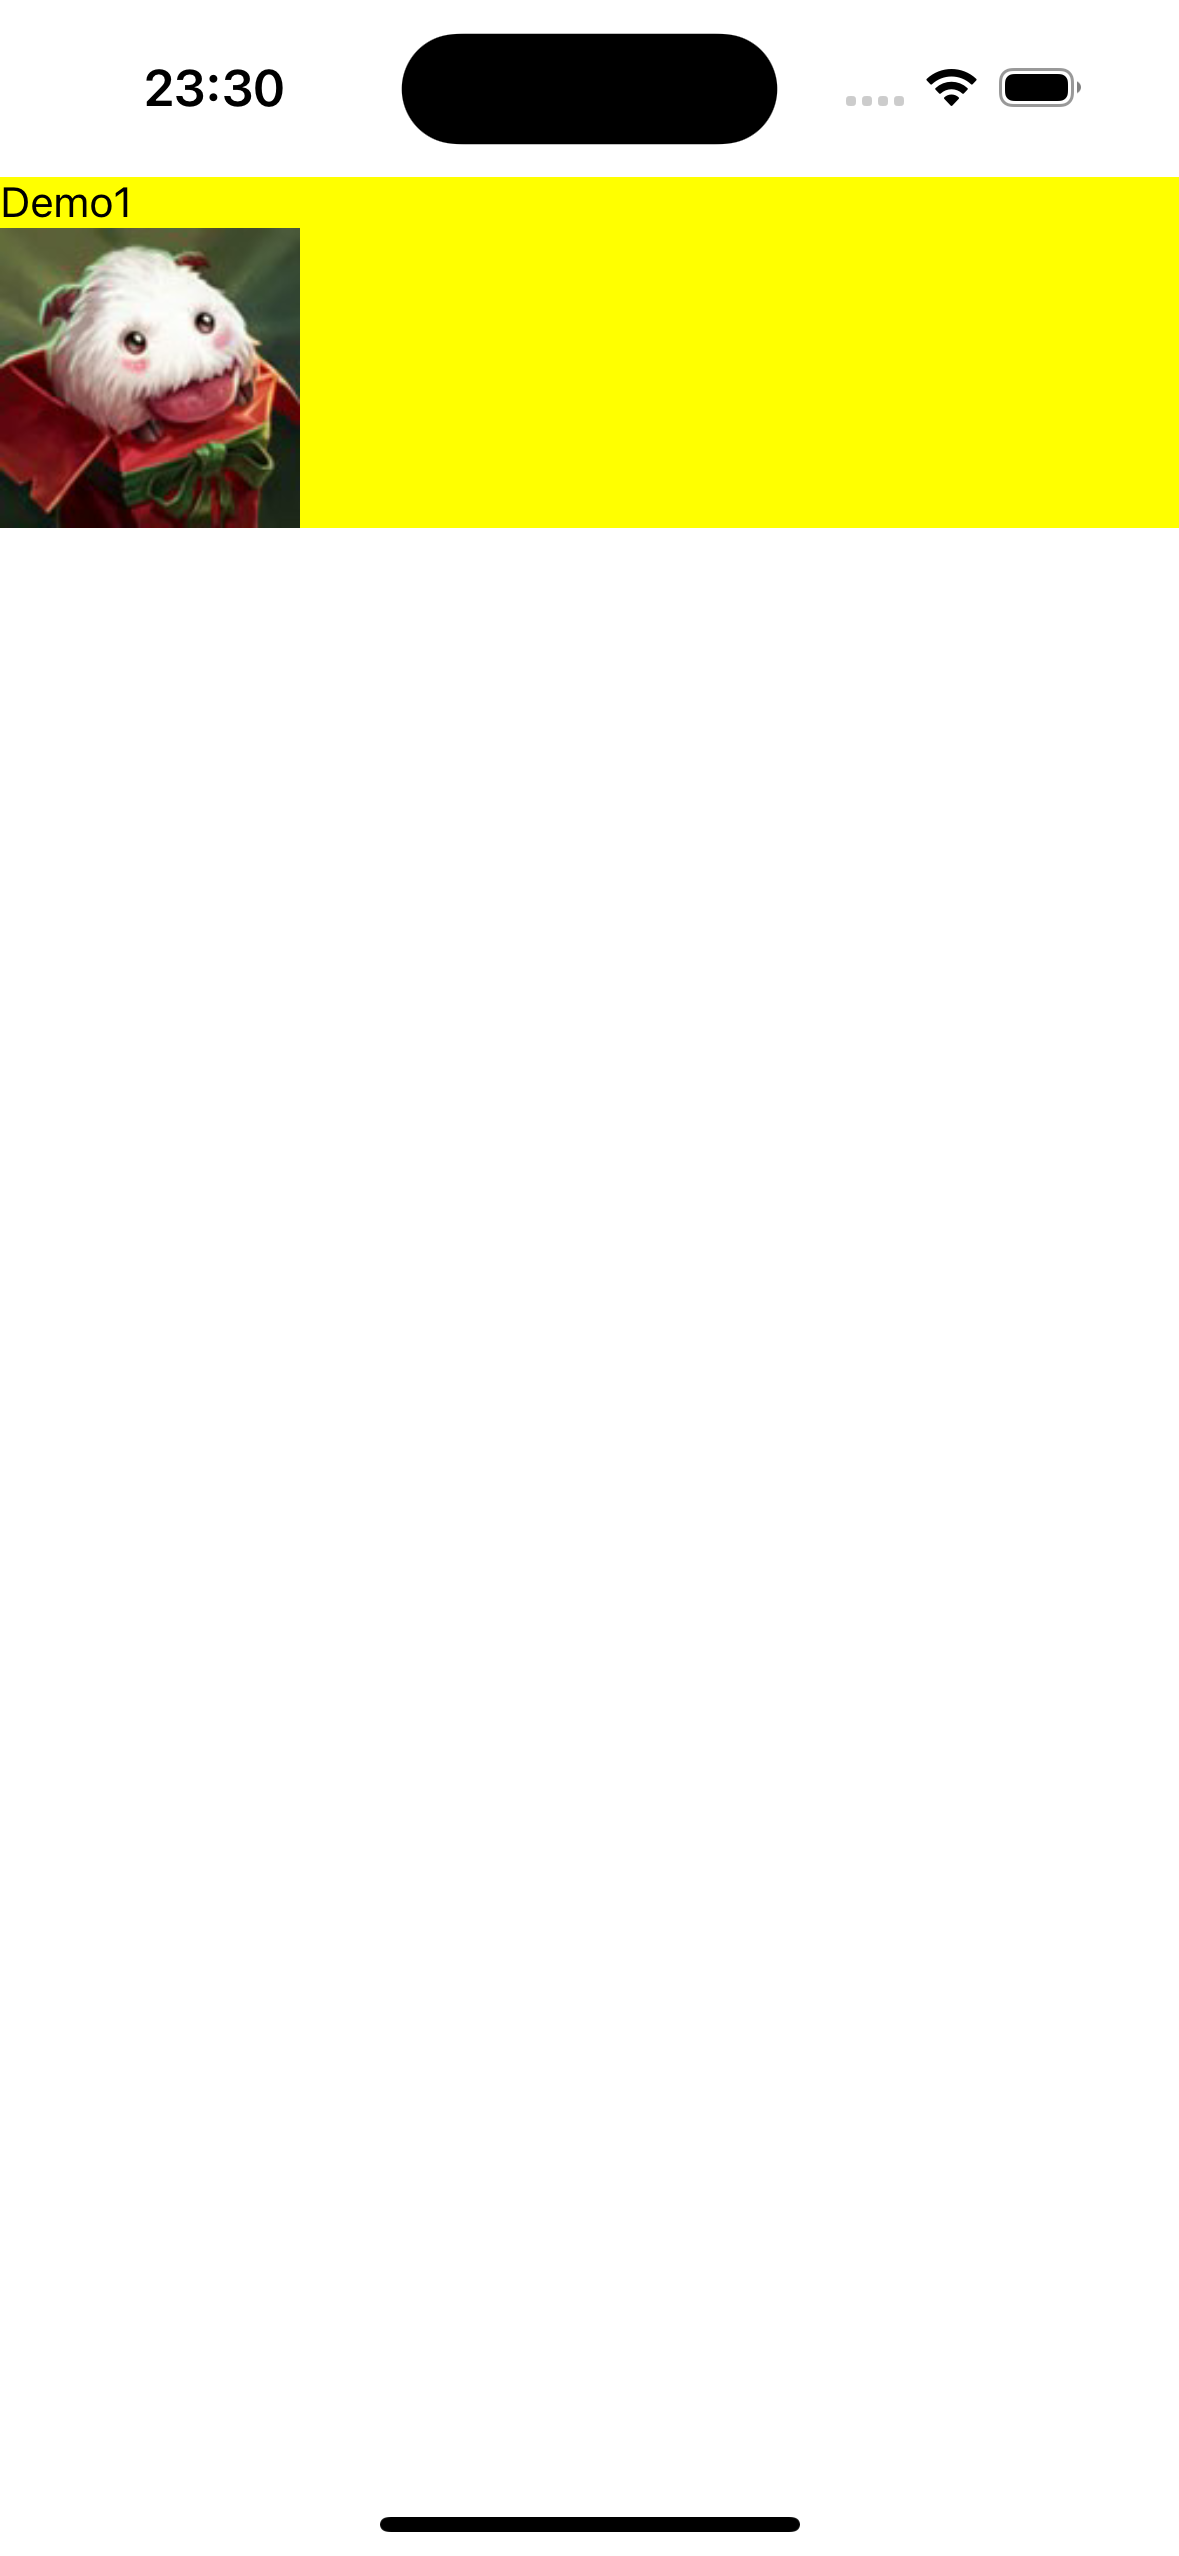
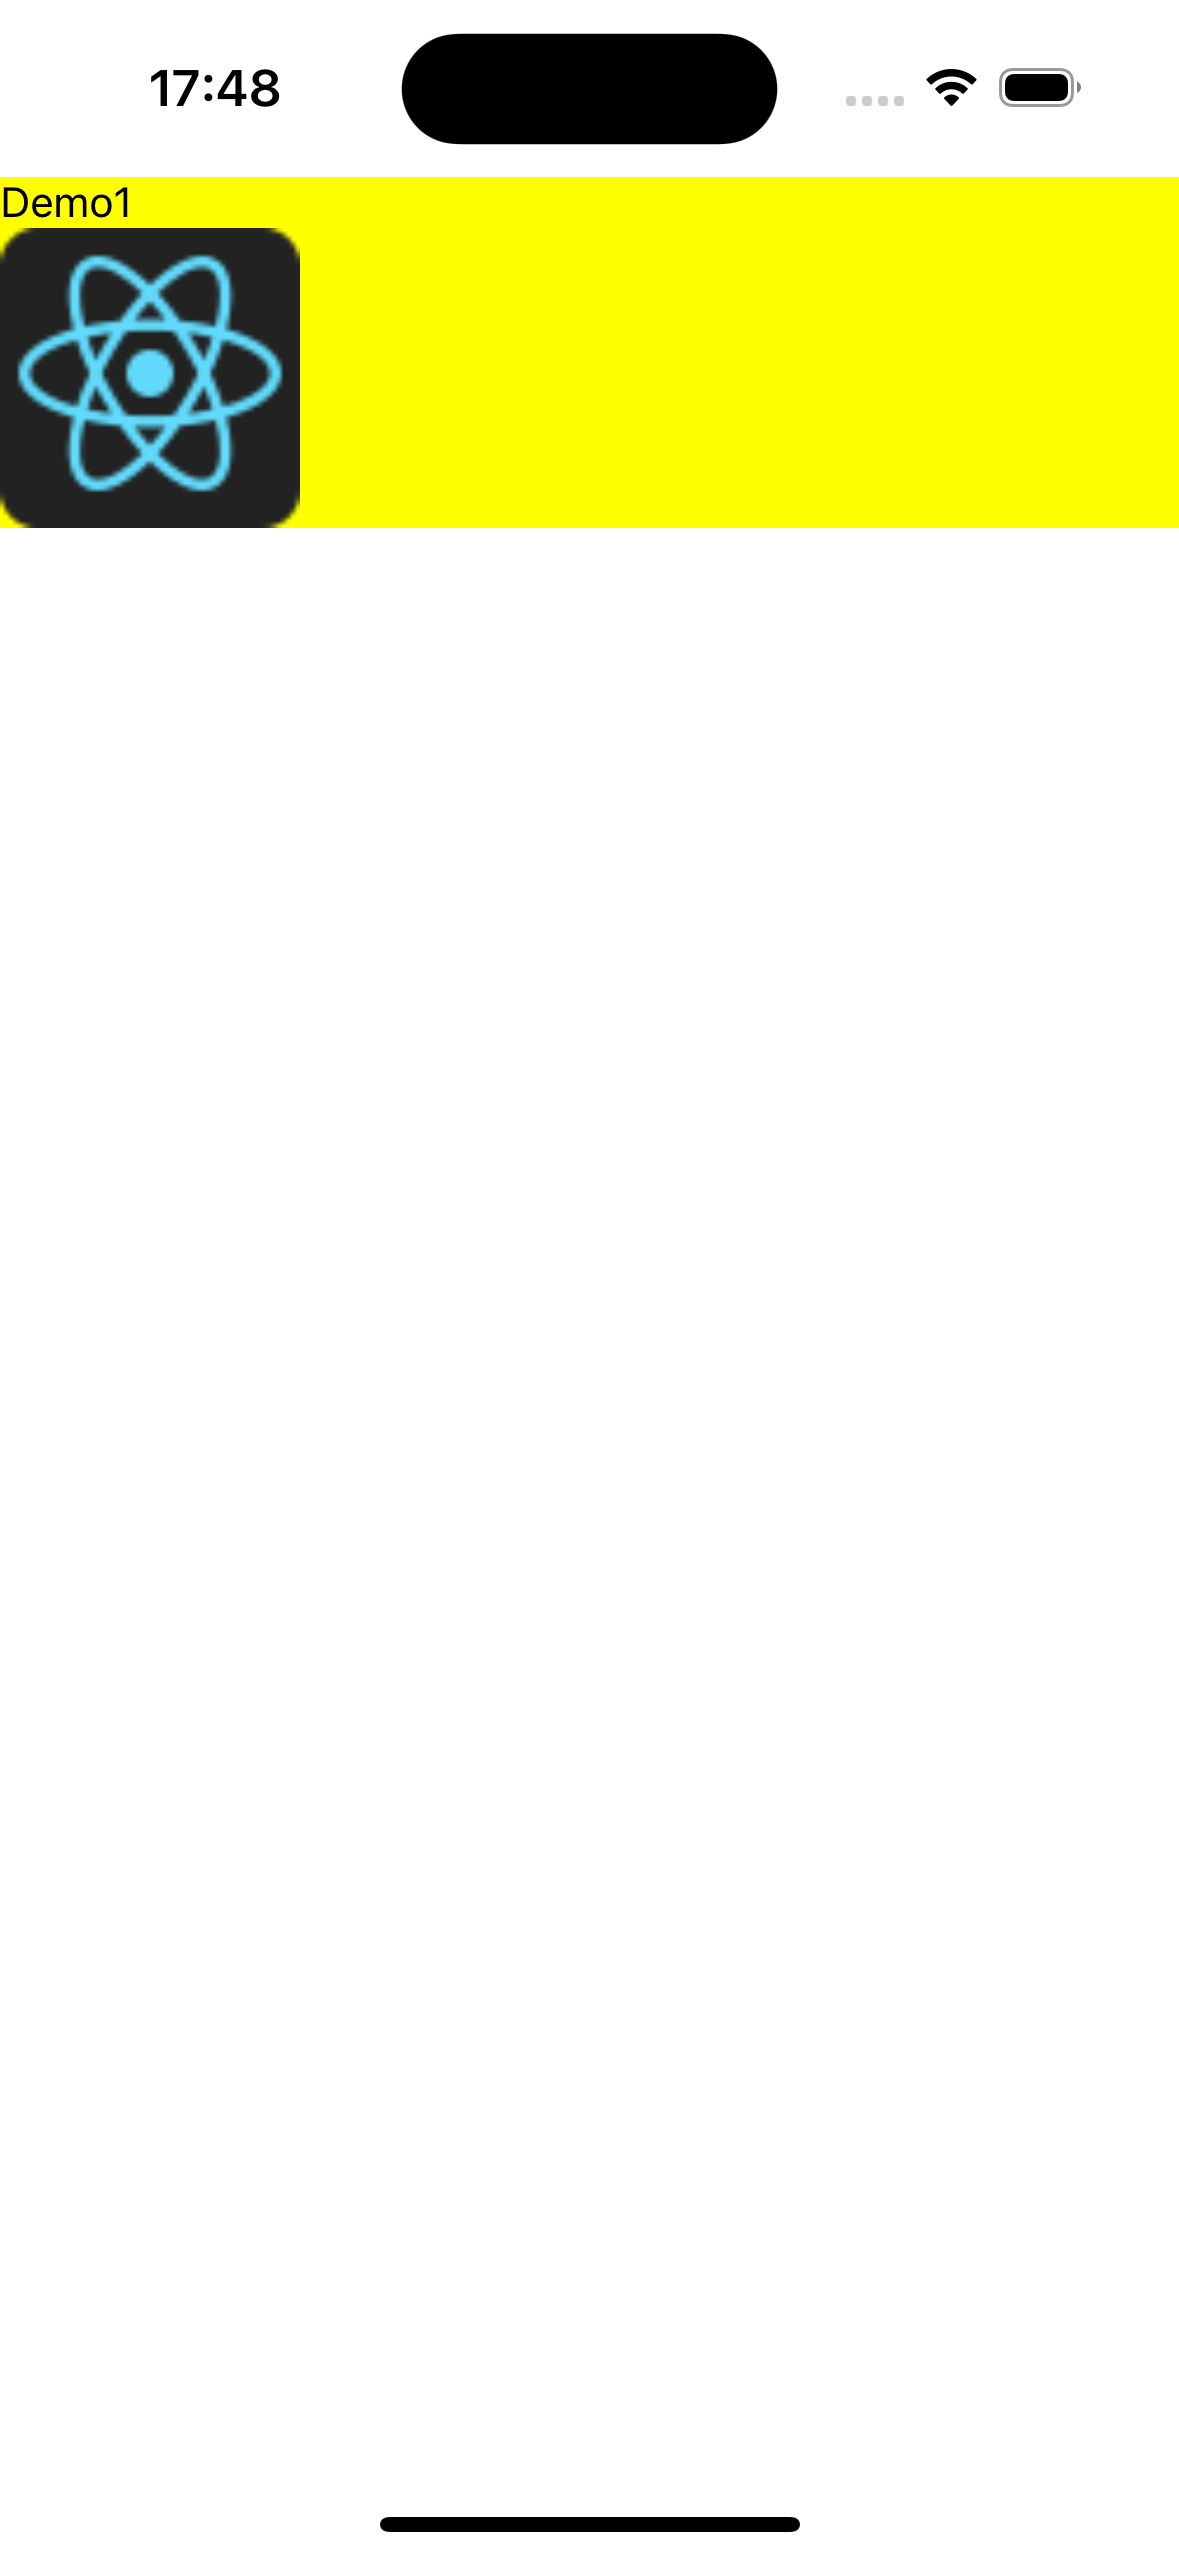
Added user Interfaces

Changed region(s): [[0.0, 0.0309, 0.2748, 0.2164]]

diff --git a/pages/rn.md b/pages/rn.md
@@ -74,8 +74,6 @@ Ok to proceed? (y) y
 ```shell
 Run instructions for iOS:
     • cd "/Users/jerin/rn/demo/rnWorkshop"
-    • npx react-native run-ios
-    or
     • npx react-native run-android
 ```
 </div>
@@ -106,7 +104,7 @@ React and React Native use **JSX,** a syntax that lets you write elements inside
 **State** is useful for handling data that changes over time or that comes from user interaction. State gives your components memory!
 
 <!--
-RN components equivalent Android vs iOS vs Web
+The core concepts behind React
 -->
 
 ---
@@ -118,9 +116,9 @@ transition: slide-left
 In Android and iOS development, a **view** is the basic building block of UI: a small rectangular element on the screen which can be used to display text, images, or respond to user input. Even the smallest visual elements of an app, like a line of text or a button, are kinds of views. Some kinds of views can contain other views. It’s views all the way down!
 
 <div class="flex justify-center items-center">
-<figure>
-  <img src="/diagram_ios-android-views.svg" width="400" alt="Diagram of Android and iOS app showing them both built on top of atomic elements called views." />
-</figure>
+  <figure>
+    <img src="/diagram_ios-android-views.svg" width="400" alt="Diagram of Android and iOS app showing them both built on top of atomic elements called views." />
+  </figure>
 </div>
 
 <!--
@@ -158,12 +156,11 @@ transition: slide-left
 ---
 
 <div grid="~ cols-5">
-<div class="col-span-1">
+  <div class="col-span-1">
+    <img src="/Demo1.png" width="400" alt="Demo1" />
+  </div>
 
-<img src="/Demo1.png" width="400" alt="Demo1" />
-
-</div>
-<div class="col-span-4" >
+  <div class="col-span-4" >
 
 ````md magic-move {lines: true}
 ```js {2|4-7|9}
@@ -202,7 +199,7 @@ function Demo1() {
     <Text>Demo1</Text>
     <Image
       source={{
-        uri: 'https://ddragon.leagueoflegends.com/cdn/9.1.1/img/profileicon/588.png',
+        uri: 'https://reactnative.dev/img/tiny_logo.png',
       }}
       style={{ width: 100, height: 100 }}
     />
@@ -223,7 +220,7 @@ function Demo1() {
       <Text>Demo1</Text>
       <Image
         source={{
-          uri: 'https://ddragon.leagueoflegends.com/cdn/9.1.1/img/profileicon/588.png',
+          uri: 'https://reactnative.dev/img/tiny_logo.png',
         }}
         style={{ width: 100, height: 100 }}
       />
@@ -242,11 +239,11 @@ import { Text, Image, View, SafeAreaView } from 'react-native';
 function Demo1() {
   return (
     <SafeAreaView>
-     <View style={{ backgroundColor: '#FF0' }}>
+      <View style={{ backgroundColor: '#FF0' }}>
         <Text>Demo1</Text>
         <Image
           source={{
-            uri: 'https://ddragon.leagueoflegends.com/cdn/9.1.1/img/profileicon/588.png',
+            uri: 'https://reactnative.dev/img/tiny_logo.png',
           }}
           style={{ width: 100, height: 100 }}
         />
@@ -257,7 +254,6 @@ function Demo1() {
 
 export default Demo1;
 ```
-
 ```js {21,29|22-24|8|25-28|14|*}
 // step 5 Fix:- Inline styling
 import React from 'react';
@@ -270,7 +266,7 @@ function Demo1() {
         <Text>Demo1</Text>
         <Image
           source={{
-            uri: 'https://ddragon.leagueoflegends.com/cdn/9.1.1/img/profileicon/588.png',
+            uri: 'https://reactnative.dev/img/tiny_logo.png',
           }}
           style={styles.image}
         />
@@ -293,7 +289,7 @@ export default Demo1;
 ```
 ````
 
-</div>
+  </div>
 </div>
 <!--
 Here is another comment.

diff --git a/pages/components.md b/pages/components.md
@@ -51,7 +51,7 @@ import React from 'react';
 import {Text, StyleSheet} from 'react-native';
 
 const TextDemo = () => {
-  const titleText = "Bird's Nest";
+  const titleText = 'Hello World';
 
   return <Text style={styles.titleText}>{titleText}</Text>;
 };
@@ -120,11 +120,8 @@ Component for inputting text via a keyboard. Props provide configurability for s
 You can also subscribe to the `onChangeText`, `onSubmitEditing` and `onFocus` events to read the user input.
 
 ```js
-import React from 'react';
-import {StyleSheet, TextInput} from 'react-native';
-
 export const TextInputDemo = () => {
-  const [text, onChangeText] = React.useState('Useless Text');
+  const [text, onChangeText] = React.useState('Placeholder Text');
 
   return (
     <TextInput style={styles.input} onChangeText={onChangeText} value={text} />
@@ -134,6 +131,9 @@ export const TextInputDemo = () => {
 const styles = StyleSheet.create({
   input: {
     height: 40,
+    margin: 12,
+    borderWidth: 1,
+    padding: 10,
   },
 });
 ```
@@ -141,7 +141,7 @@ const styles = StyleSheet.create({
 <br>
 
 <!--
-For network and data images, you will need to manually specify the dimensions of your image!
+A foundational component for inputting text into the app via a keyboard.
 -->
 
 ---
@@ -179,5 +179,52 @@ export default ScrollViewDemo;
 <br>
 
 <!--
-For network and data images, you will need to manually specify the dimensions of your image!
+Component that wraps platform ScrollView while providing integration with touch locking "responder" system.
 -->
+
+---
+transition: slide-left
+---
+
+## StyleSheet
+
+A StyleSheet is an abstraction similar to CSS StyleSheets
+
+- By moving styles away from the render function, you're making the code easier to understand.
+- Naming the styles is a good way to add meaning to the low level components in the render function.
+
+<br>
+
+```js
+const styles = StyleSheet.create({
+  container: {
+    flex: 1,
+    padding: 24,
+    backgroundColor: '#eaeaea',
+  },
+  title: {
+    marginTop: 16,
+    paddingVertical: 8,
+    borderWidth: 4,
+    borderColor: '#20232a',
+    borderRadius: 6,
+    color: '#20232a',
+    textAlign: 'center',
+    fontSize: 30,
+    fontWeight: 'bold',
+  },
+});
+
+```
+
+<br>
+
+<!--
+Component that wraps platform ScrollView while providing integration with touch locking "responder" system.
+-->
+
+---
+transition: slide-left
+src: ./userInterfaces.md
+layout: center
+---

diff --git a/pages/userInterfaces.md b/pages/userInterfaces.md
@@ -1,0 +1,107 @@
+# User Interfaces
+
+<!--
+These common user interface controls will render on any platform.
+-->
+---
+transition: slide-left
+---
+
+## Button
+
+<br>
+<span>
+A basic button component that should render nicely on any platform.
+Supports a minimal level of customization.
+
+You can build your own button using<span v-mark.highlight.red="1"> Pressable </span>
+
+</span>
+<br>
+
+```js
+<Button
+  onPress={onPressLearnMore}
+  title="Learn More"
+  color="#841584"
+  accessibilityLabel="Learn more about this purple button"
+/>
+```
+
+<br>
+
+<!--
+A basic button component that should render nicely on any platform
+-->
+
+---
+transition: slide-left
+---
+
+## Switch
+
+<br>
+<span>
+Renders a boolean input.
+
+This is a controlled component that requires an `onValueChange` callback that updates the `value` prop in order for the component to reflect user actions.
+
+</span>
+<br>
+
+```js
+const SwitchDemo = () => {
+  const [isEnabled, setIsEnabled] = useState(false);
+  const toggleSwitch = () => setIsEnabled(previousState => !previousState);
+
+  return (
+    <Switch
+        trackColor={{false: '#767577', true: '#81b0ff'}}
+        thumbColor={isEnabled ? '#f5dd4b' : '#f4f3f4'}
+        ios_backgroundColor="#3e3e3e"
+        onValueChange={toggleSwitch}
+        value={isEnabled}
+    />
+  );
+};
+
+export default SwitchDemo;
+```
+
+<br>
+
+<!--
+Renders a boolean input.
+-->
+
+---
+transition: slide-left
+---
+
+# Flatlist
+
+<br>
+<span>
+A performant interface for rendering basic, flat lists, supporting the most handy features:
+
+- Fully cross-platform.
+- Optional horizontal mode.
+- Configurable viewability callbacks.
+- Header support.
+- Footer support.
+- Separator support.
+- Pull to Refresh.
+- Scroll loading.
+- ScrollToIndex support.
+- Multiple column support.
+
+</span>
+
+<br>
+
+> Shopify's Flashlist is a fast & performant list
+<br>
+
+<!--
+Rendering basic, flat lists
+-->

diff --git a/slides.md b/slides.md
@@ -27,8 +27,8 @@ hideInToc: true
 Learn to build mobile application using react native.
 
 <div class="abs-br m-6 flex gap-2">
-<span @click="$slidev.nav.next" class="px-2 py-1 rounded cursor-pointer"
-hover="bg-white bg-opacity-10">
+  <span @click="$slidev.nav.next" class="px-2 py-1 rounded cursor-pointer"
+    hover="bg-white bg-opacity-10">
     Speakers <carbon:bullhorn class="inline"/>
   </span>
  <span class="px-2 py-1 rounded">
@@ -54,7 +54,9 @@ hideInToc: true
 
 # Table of contents
 
-<Toc minDepth="1" maxDepth="2"></Toc>
+<Transform :scale="0.8">
+  <Toc minDepth="1" maxDepth="2"></Toc>
+</Transform>
 
 <!--
 Table of contents
@@ -70,7 +72,6 @@ hideInToc: true
 # Jerin John K
 <br>
 
-<!-- <div v-click.hide="1"> -->
 <div v-click.hide="1">
   I started as a C# developer working on Windows Apps while dabbling in
   Xamarin.<br>

diff --git a/README.md b/README.md
@@ -1,11 +1,9 @@
-# Welcome to [Slidev](https://github.com/slidevjs/slidev)!
+# Welcome to React Native Workshop
 
 To start the slide show:
 
-- `npm install`
-- `npm run dev`
+- `yarn`
+- `yarn dev`
 - visit http://localhost:3030
 
-Edit the [slides.md](./slides.md) to see the changes.
-
-Learn more about Slidev on [documentations](https://sli.dev/).
+Learn more about React Native on [documentations](https://reactnative.dev/).
